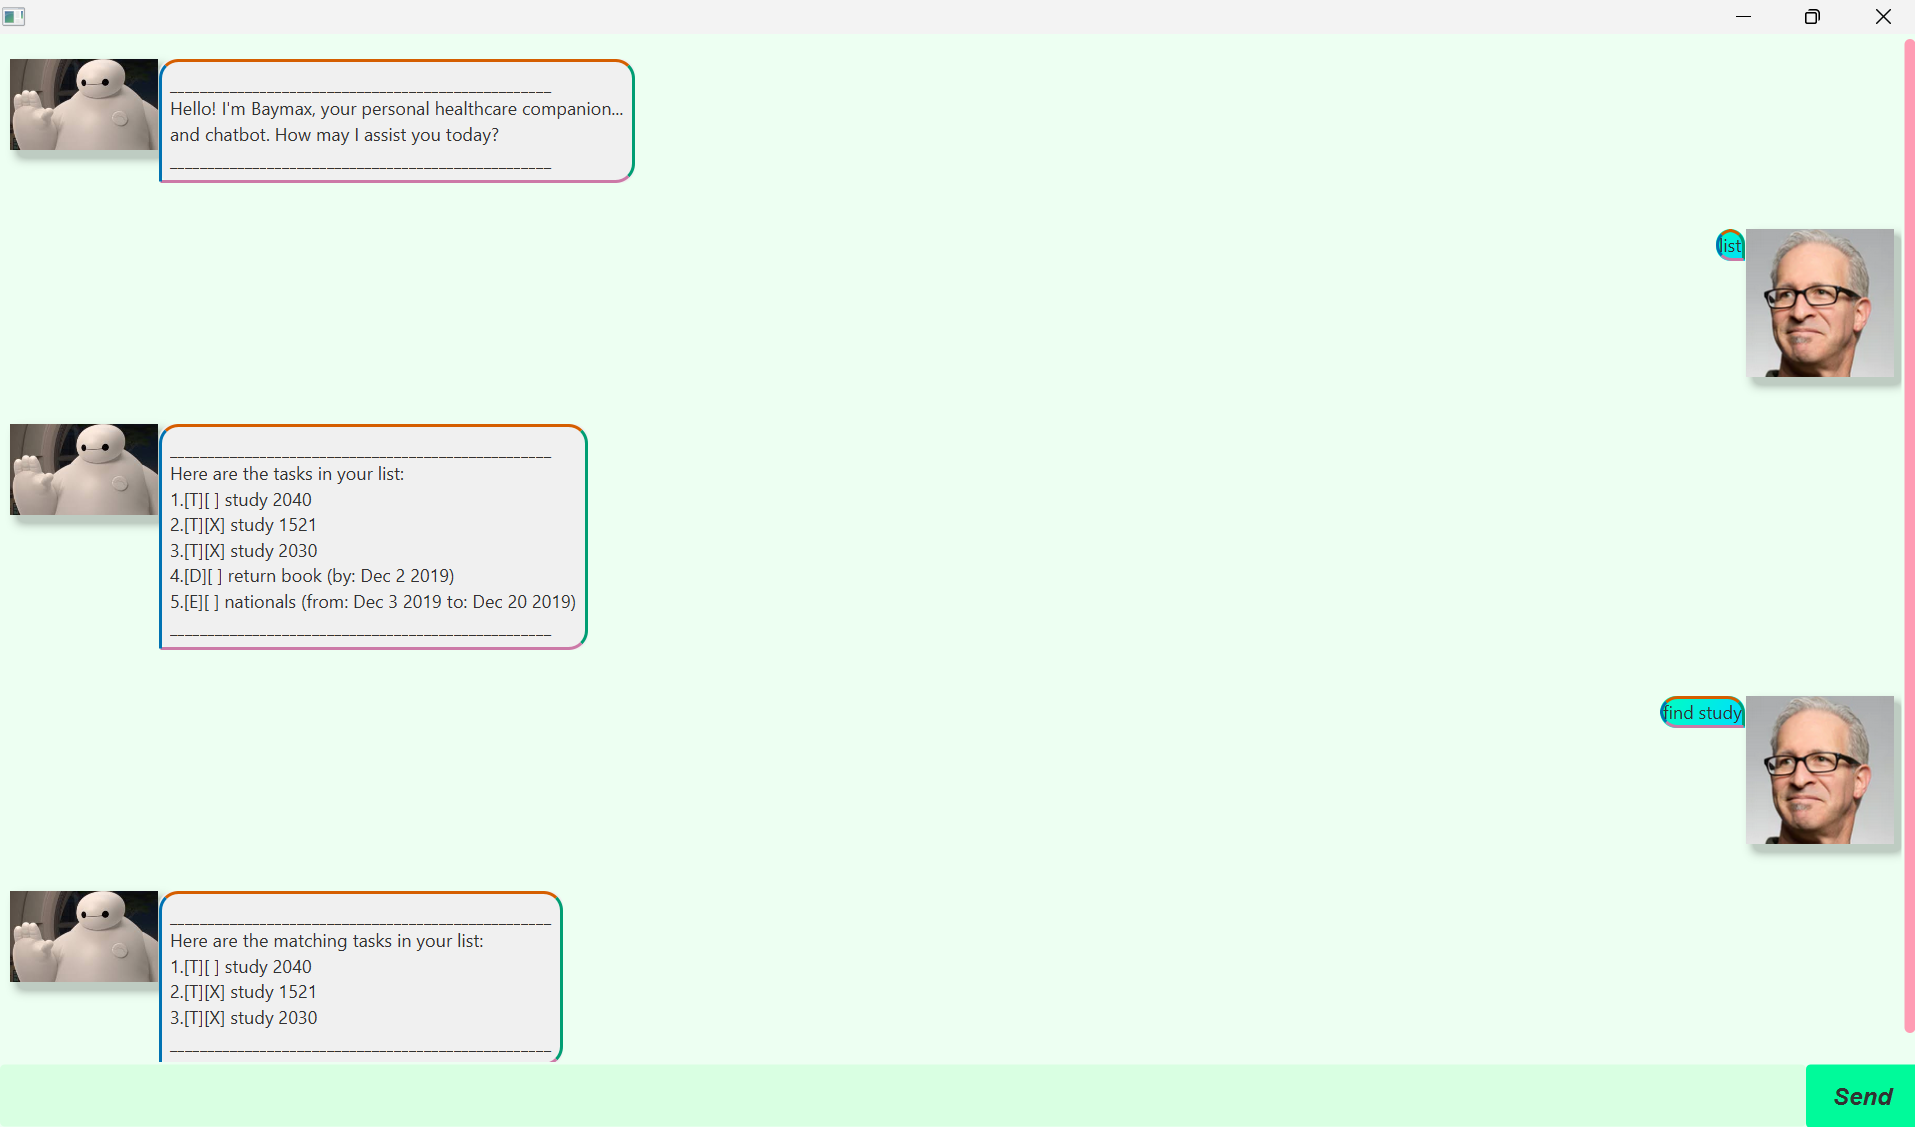
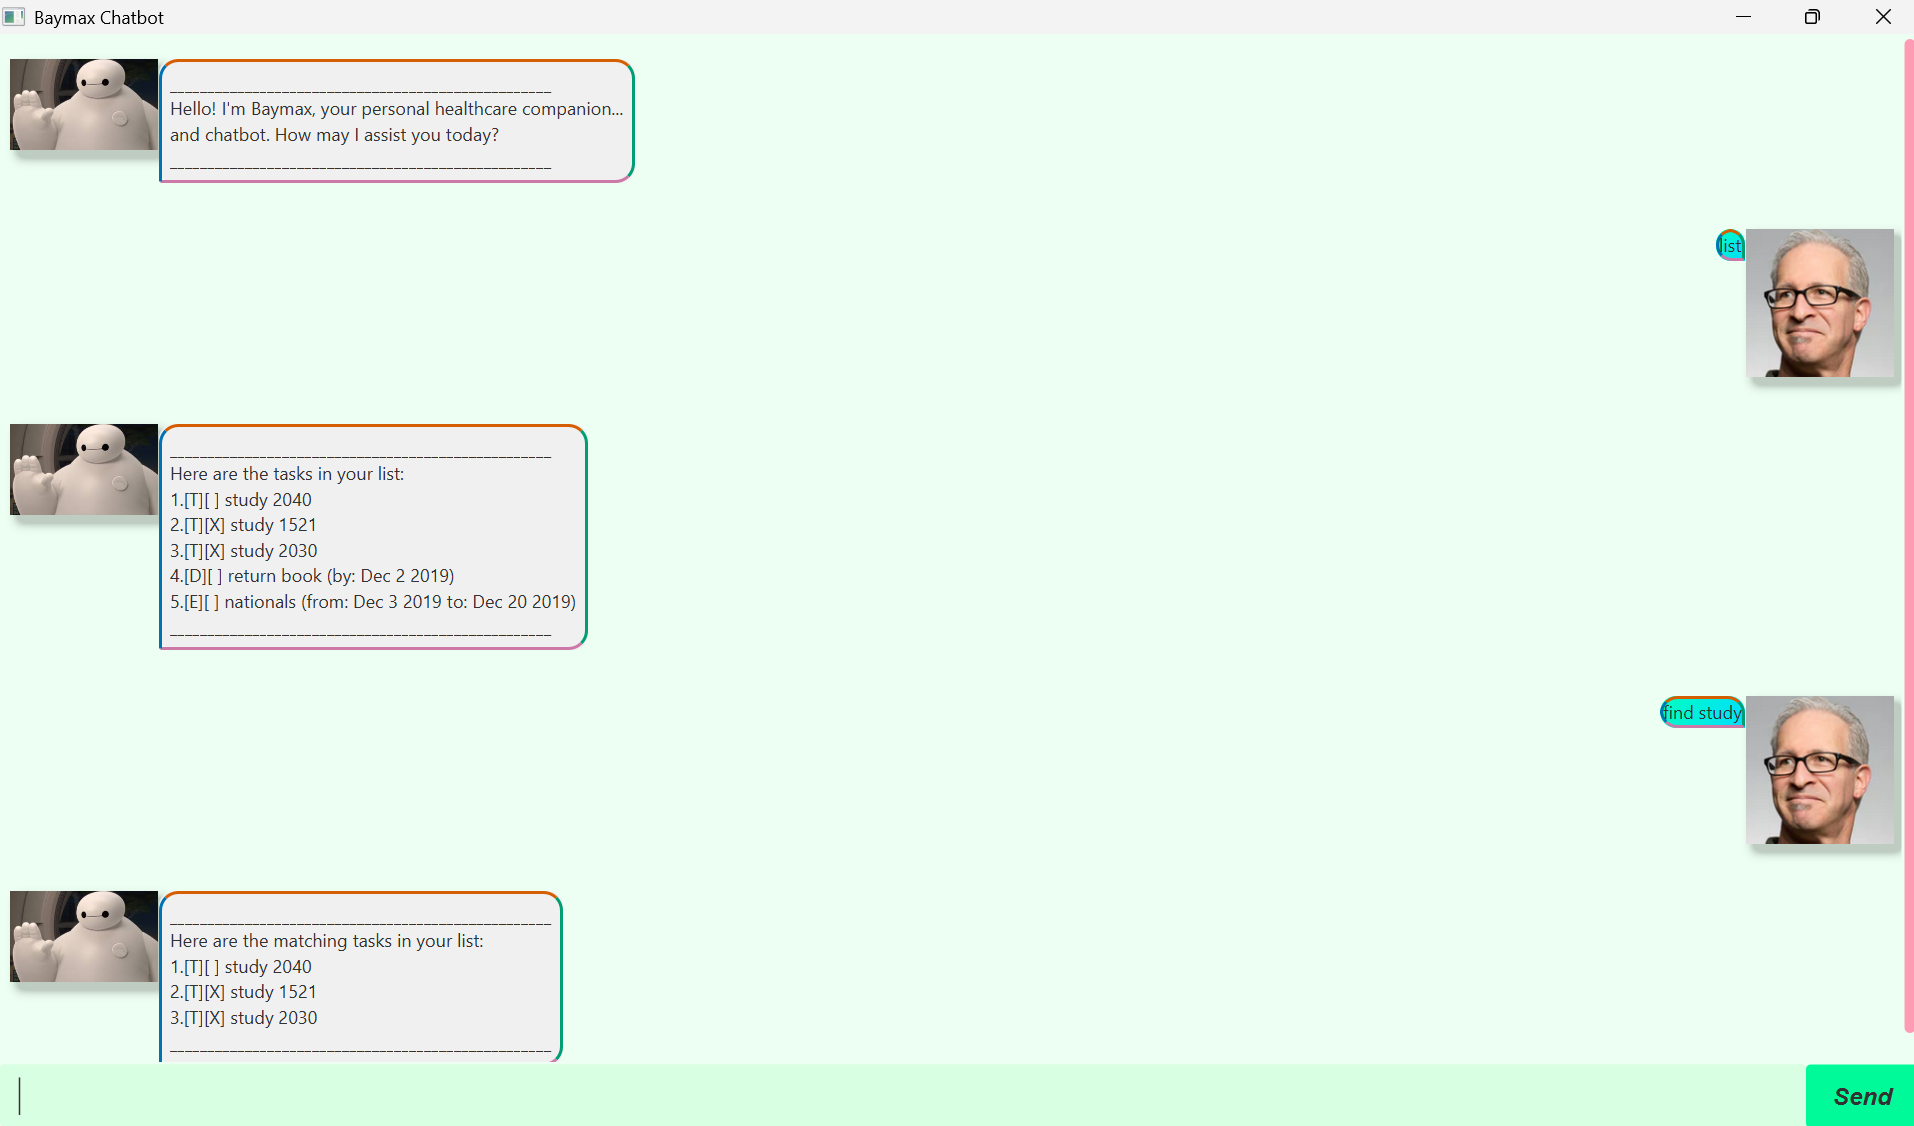
A-UserGuide: Add product name in title bar

diff --git a/src/main/java/Main.java b/src/main/java/Main.java
@@ -37,6 +37,8 @@ public class Main extends Application {
             Scene scene = new Scene(ap);
             stage.setScene(scene);
             fxmlLoader.<MainWindow>getController().setBaymax(baymax);  // inject the Baymax instance
+
+            stage.setTitle("Baymax Chatbot");
             stage.show();
         } catch (IOException e) {
             e.printStackTrace();

diff --git a/docs/README.md b/docs/README.md
@@ -26,7 +26,7 @@ All outputs follow a friendly, bordered format.
 
 ---
 
-## Commands
+## Features
 
 ### 1. Adding a Todo Task
 
